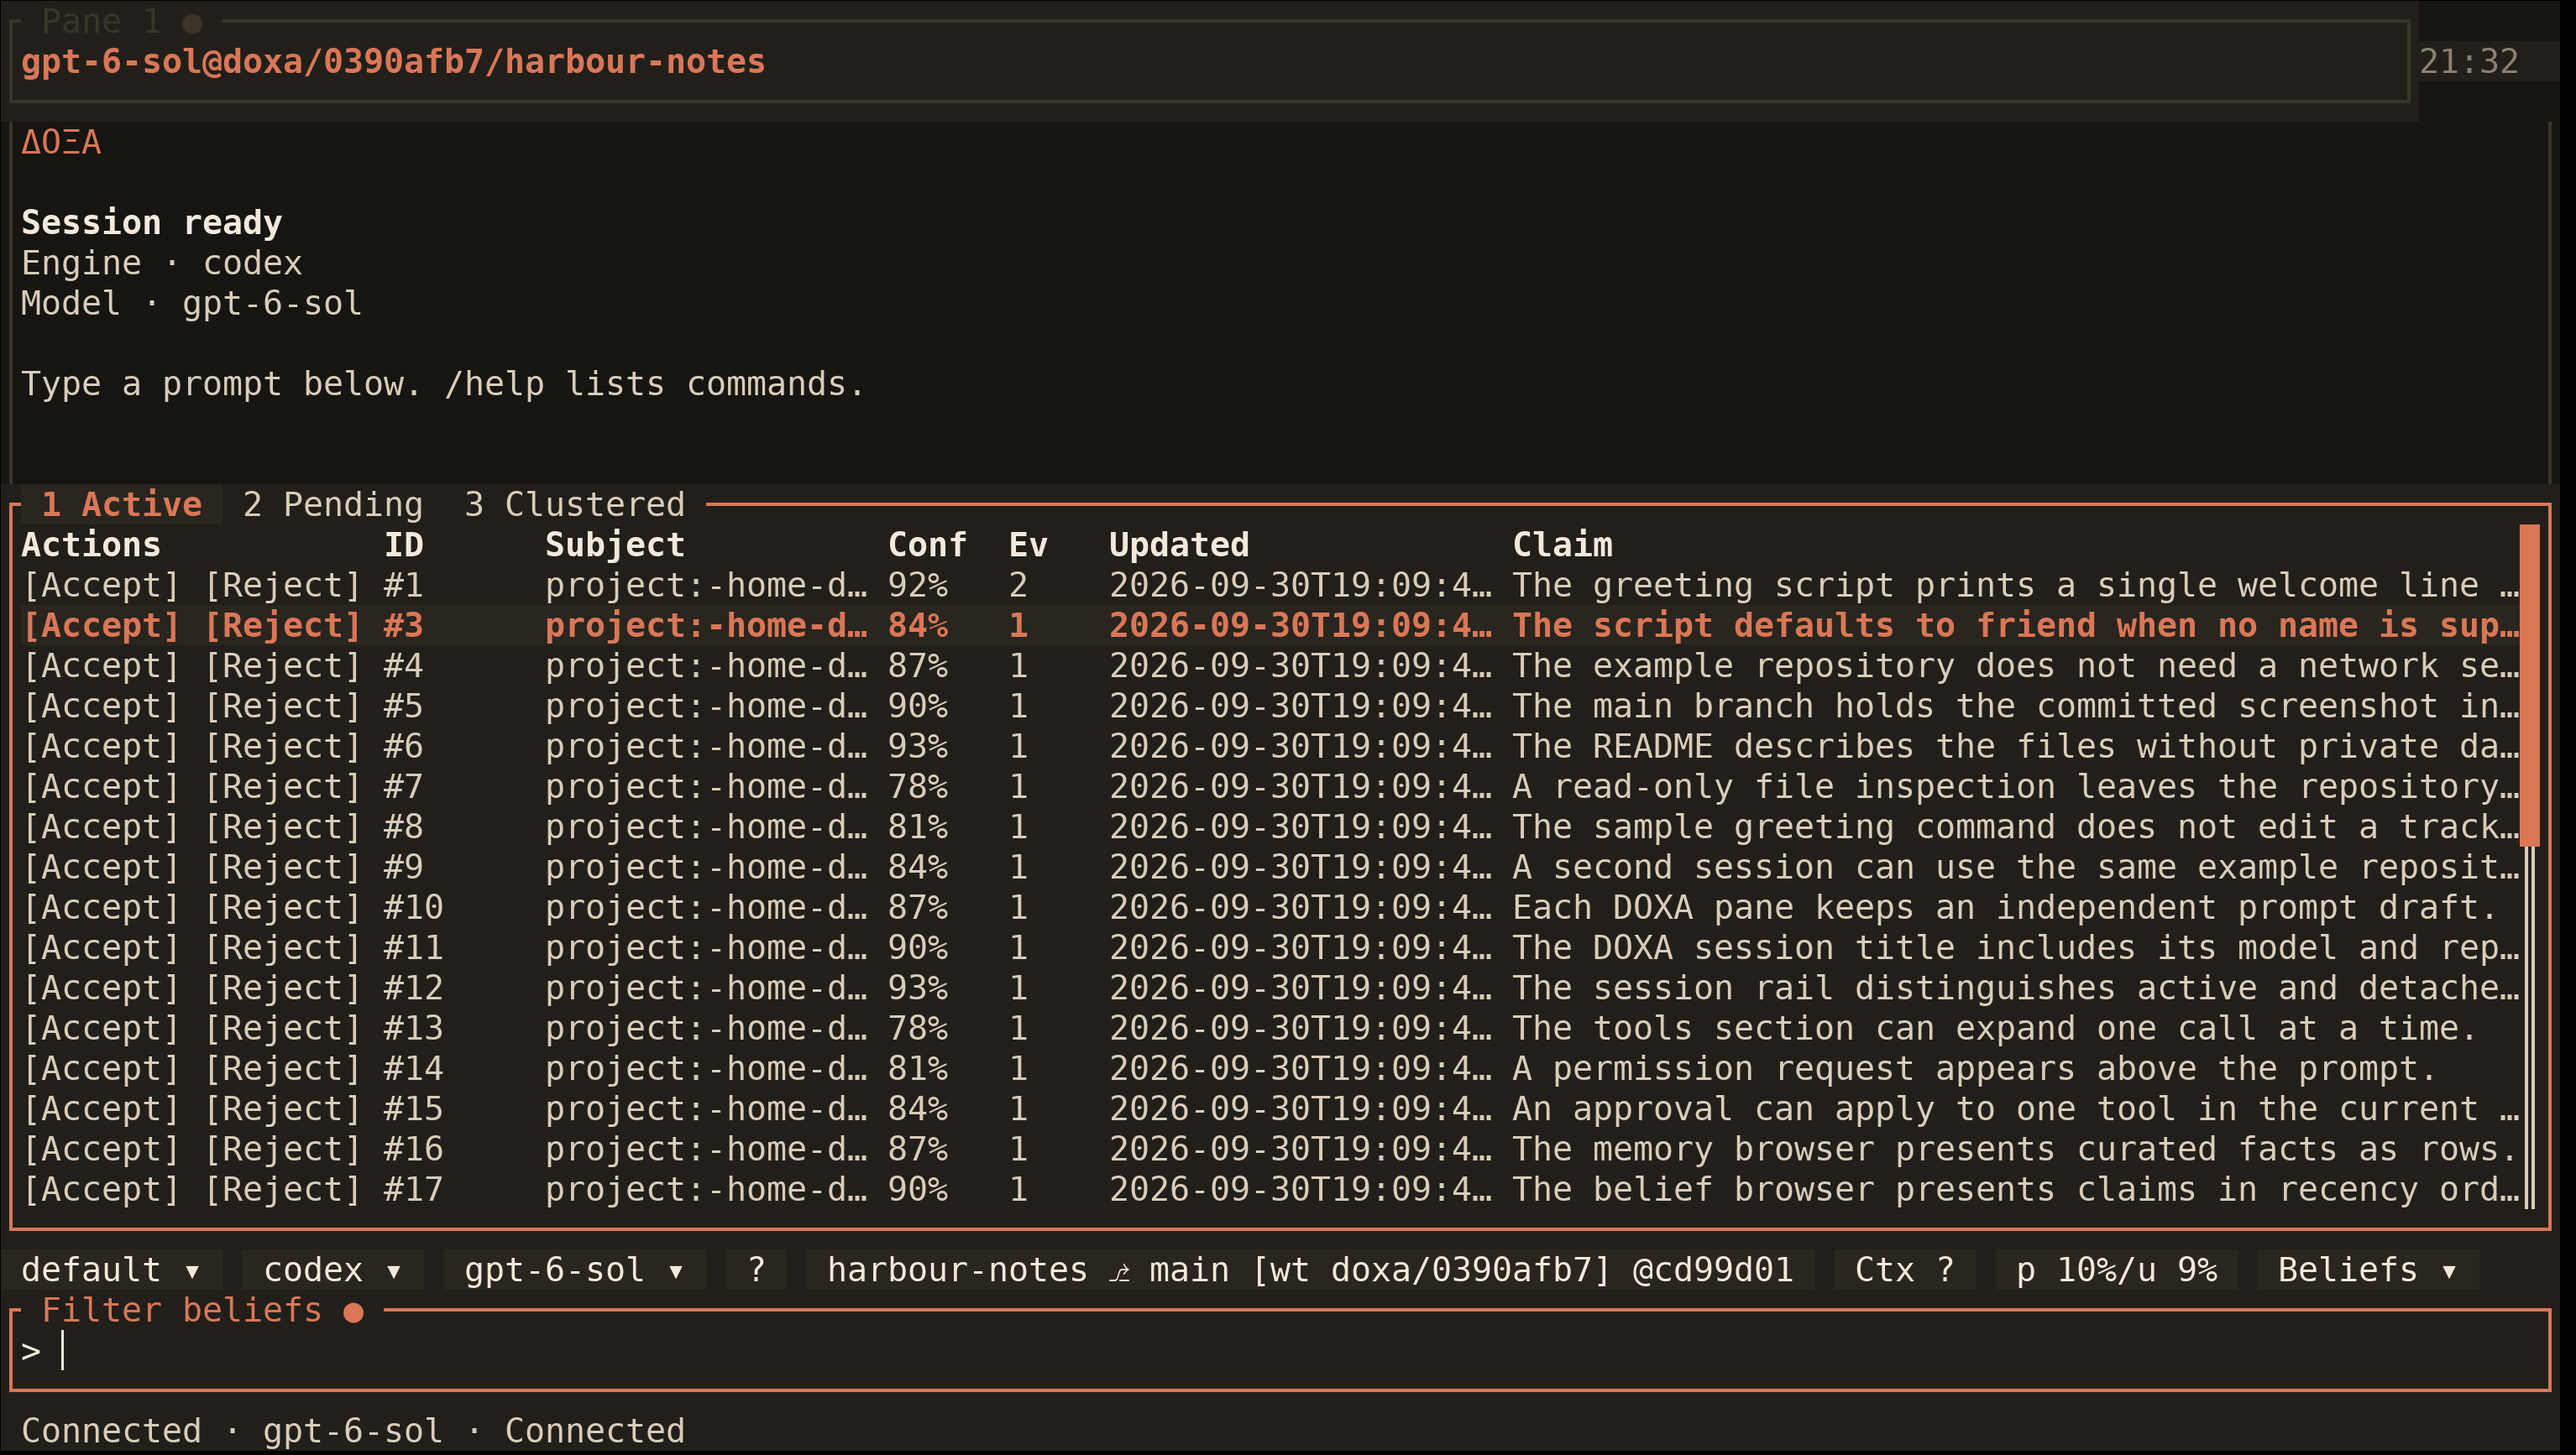
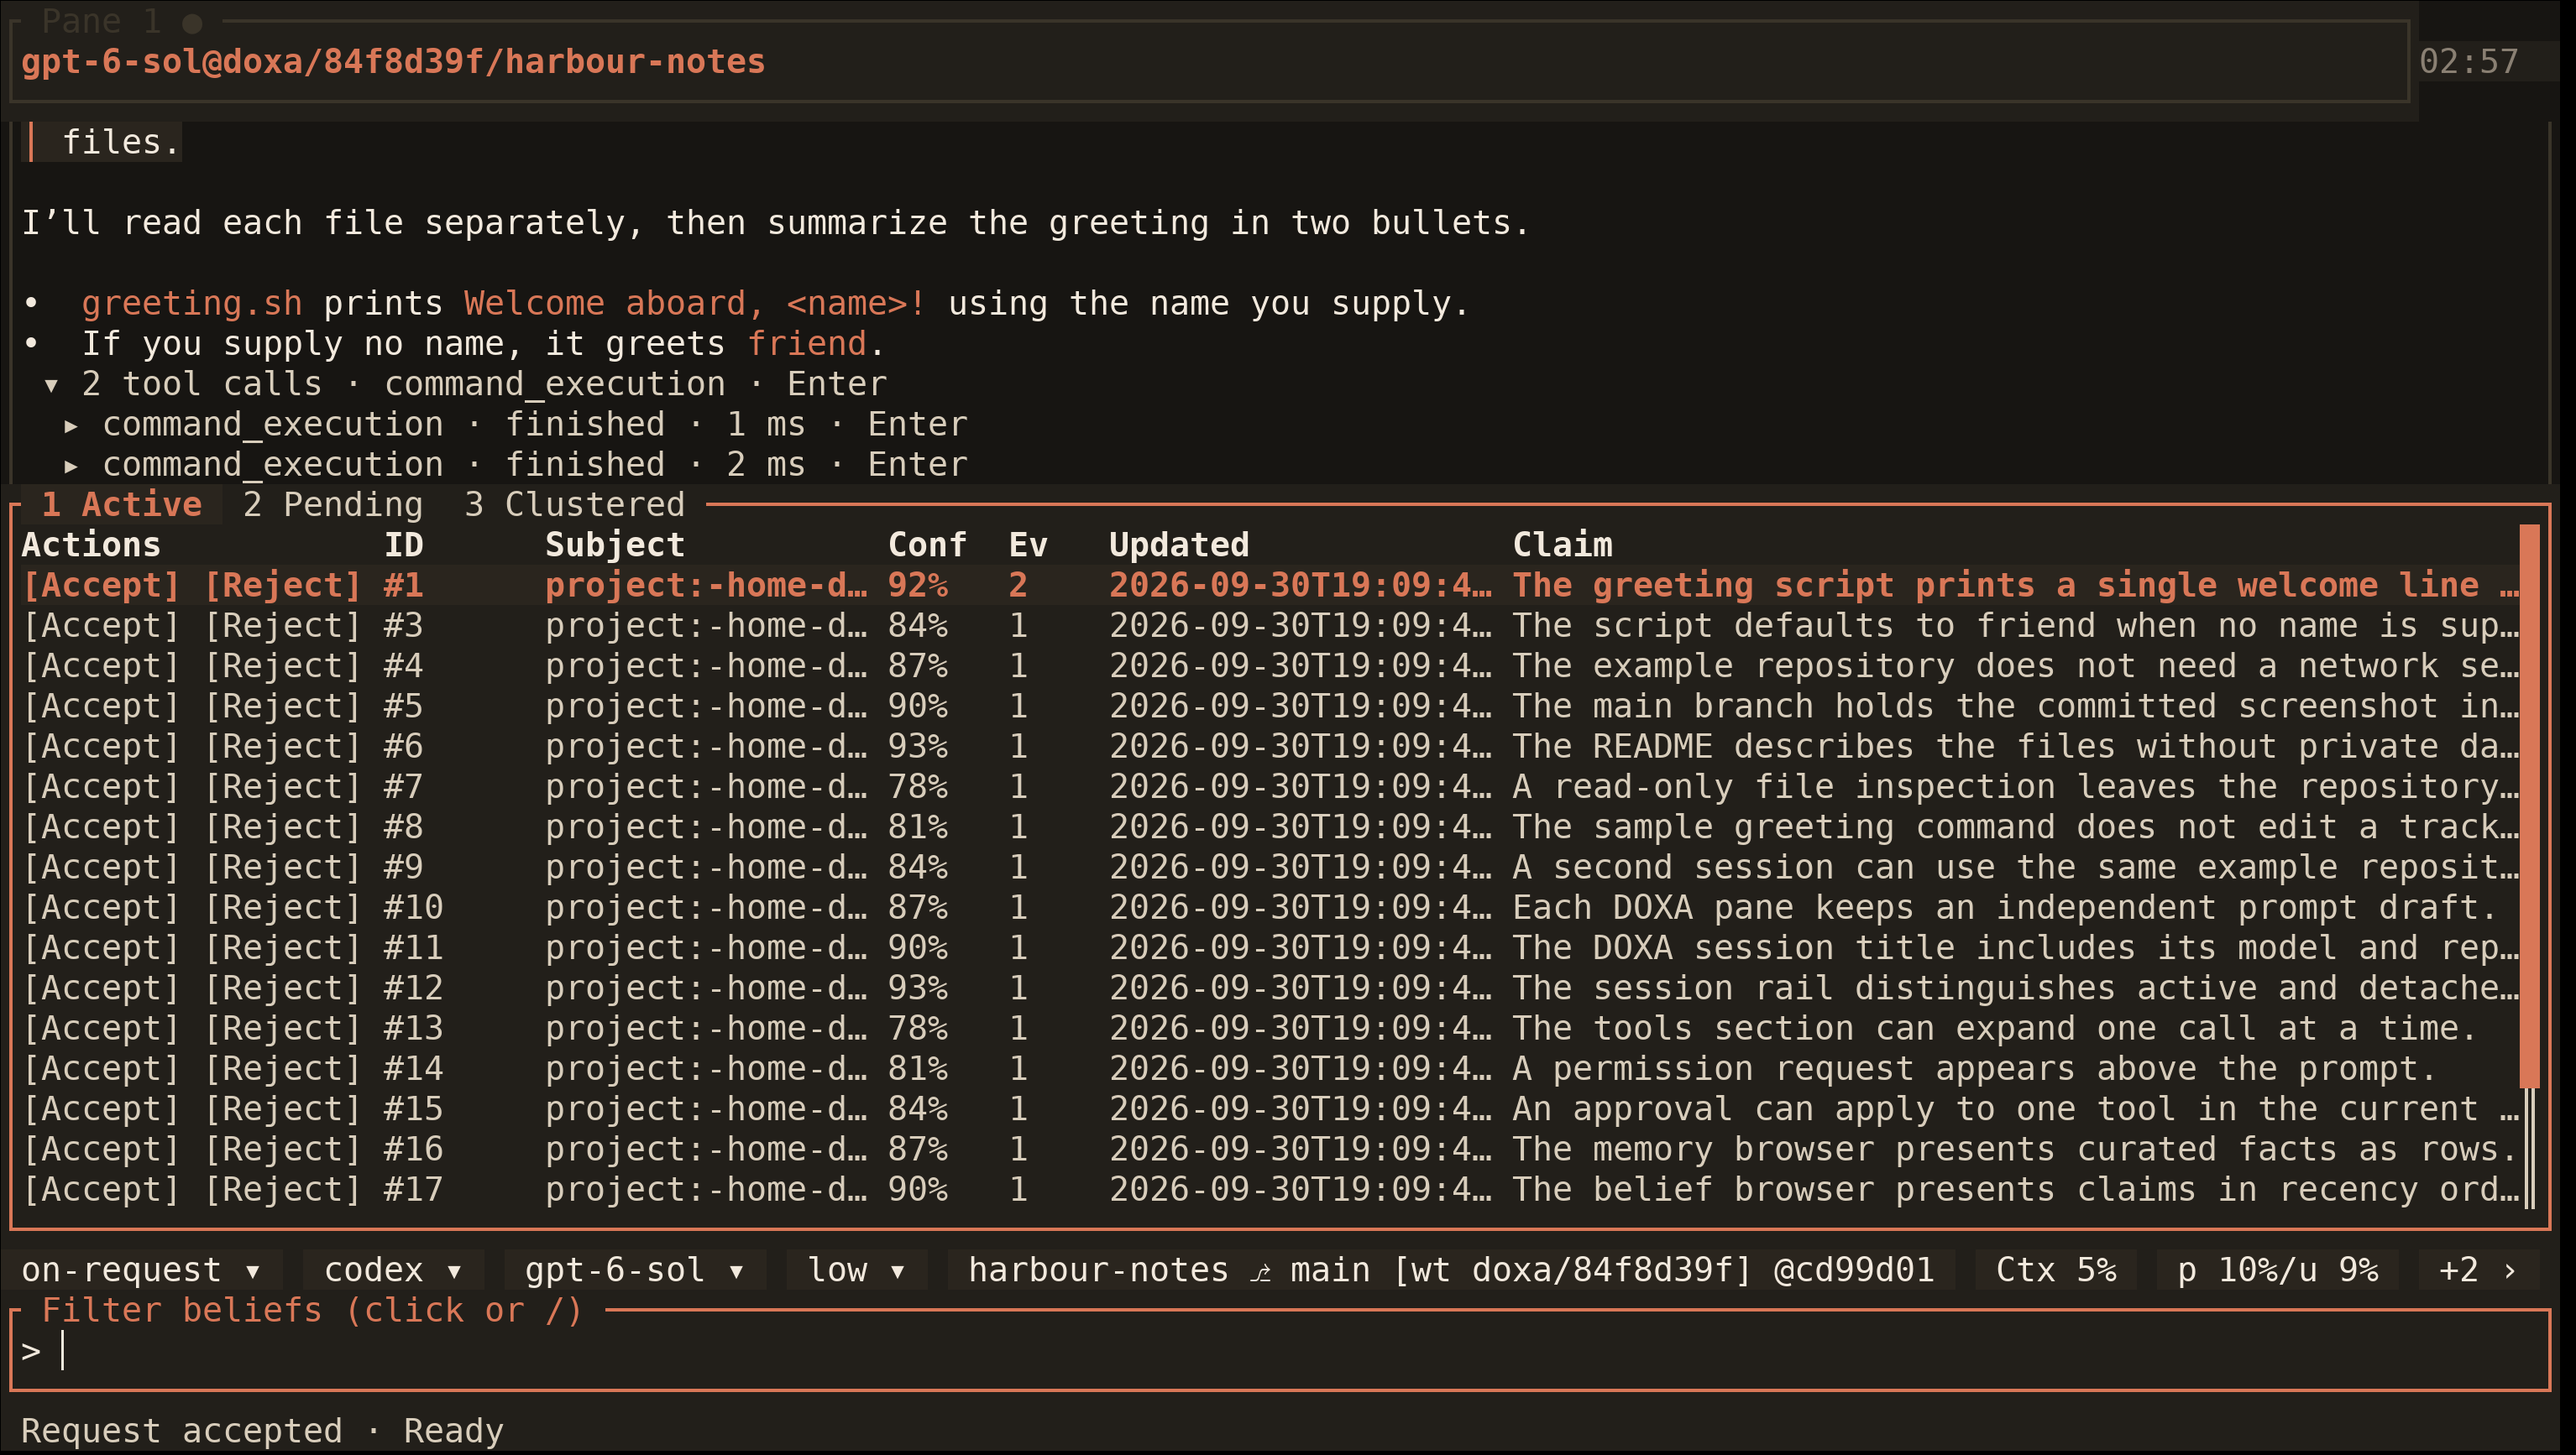
docs(gallery): recapture Rust TUI and refresh README
Replace the README gallery with live alpha.68 captures, document the isolated capture process, and bump the Rust release.

diff --git a/docs/rust-gallery.md b/docs/rust-gallery.md
@@ -1,19 +1,18 @@
 # Live Rust terminal gallery
 
-The README images were captured on 2026-09-30 from the running **DOXA
-2.0.0-alpha.58** frontend and daemon. The grouped-session and help frames were
-recaptured with **alpha.59**, which added project headings. A private Xvfb
-display hosts a real GTK3/VTE terminal; FFmpeg records its framebuffer. The gallery uses an
-authenticated Codex CLI 0.156.1 and the protected DOXA app server. The memory
-and belief frames use native LORE 0.62.8; the two grouped-session captures leave
-LORE disabled. No `TestBackend`, demo engine, fixture events, or composited UI
-mockups appear in these images.
+The README images were captured on 2026-10-03 from the running **DOXA
+2.0.0-alpha.68** frontend and daemon. A private Xvfb display hosts a real
+GTK3/VTE terminal; FFmpeg records its framebuffer. The gallery uses an
+authenticated Codex CLI 0.156.1 through the protected DOXA app server and the
+native LORE 0.62.11 carrier. DOXA and LORE state are isolated from the user's
+stores. No `TestBackend`, demo engine, fixture events, or composited UI mockups
+appear in these images.
 
 | Image | Live state |
 | --- | --- |
 | `rust-hero.png` | Completed Codex turn with two file reads and folded tool calls |
 | `rust-welcome.png` | Fresh session and block Greek ΔΟΞΑ banner |
-| `rust-sessions.png` | Three real tabs grouped under Harbour notes and Lighthouse notes in the session rail |
+| `rust-sessions.png` | Two live sessions grouped by repository above one recoverable, muted Past sessions entry |
 | `rust-curated-memory.png` | Native LORE facts in a selectable, scrollable table |
 | `rust-beliefs.png` | Native LORE beliefs with a selected review row |
 | `rust-tool-entries.png` | One actual provider tool call expanded inside the turn |
@@ -21,14 +20,14 @@ mockups appear in these images.
 | `rust-help.png` | Local command help beside the grouped session rail |
 | `rust-settings.png` | Editable Keys settings category |
 
-All nine PNGs measure **3068 × 1734** and use DejaVu Sans Mono 30. The
-captured repositories, **Harbour notes** and **Lighthouse notes**, contain only
-synthetic example files. Lighthouse notes appears only in the two grouped-session
-frames. The user and project memory and beliefs were
-seeded with synthetic statements through the native `lore-rs` carrier. DOXA
-then queried the isolated store normally. The provider read only two Harbour
-notes example files; it did not edit the repository. The published images contain
-no account credentials, personal memory, or private workspace paths.
+All nine PNGs measure **3068 × 1734**. The terminal used DejaVu Sans Mono 30
+at 127 columns by 36 rows. **Harbour notes** and **Lighthouse notes** contain
+only synthetic example files. Lighthouse notes appears only in the grouped
+session and help frames. The isolated LORE store contains synthetic user and
+project facts and beliefs; DOXA queried it through the native carrier. The
+provider read only two Harbour notes files and did not edit the repository.
+The published images contain no credentials, personal memory, or private
+workspace paths.
 
 ## Reproduce a capture
 
@@ -73,11 +72,13 @@ wheel input over the tab header switches them. `/help`, `/settings`, `/beliefs`,
 and `/s` expose the other captured states. The script's `text` action reads
 the actual terminal text for state checks, and `status` reports cell geometry.
 
-For `rust-sessions.png`, start a second real session from a separate synthetic
-repository with the same isolated DOXA home and runtime. Detach that TUI with
-Ctrl+Q, then `/attach` its live session from Harbour notes. Create a second
-Harbour notes tab with Ctrl+T and open the rail with `/sidebar`. The capture
-shows both repository headings and three actual session IDs.
+For `rust-sessions.png`, create a second Harbour notes tab with Ctrl+T. Start
+another real session from Lighthouse notes using the same isolated DOXA home
+and runtime, then `/attach` it in the first TUI. Open the rail and drag its
+divider wider. Detach the completed Harbour notes tab with Ctrl+X, stop that
+exact daemon in the isolated runtime, and wait for the rail's Past sessions
+section. The capture shows two live sessions and the stopped session's retained
+label under separate repository headings.
 
 Inspect every PNG and its dimensions before copying it from
 `gallery-state/shots` to `assets/shots`. Stop the exact isolated capture

diff --git a/README.md b/README.md
@@ -11,15 +11,15 @@
 > [!WARNING]
 > Rust 2.0 is an alpha. Configuration and stored formats may change. Agents can edit files and run commands with your privileges; review [scope and limits](#scope-and-limits) before using DOXA on important work.
 
-![DOXA running a Codex session with an expandable tool section](assets/shots/rust-hero.png)
+![DOXA Rust running a Codex session with an expandable tool section](assets/shots/rust-hero.png)
 
-*Captured from the running Rust app in an isolated example repository. See the [capture record](docs/rust-gallery.md).*
+*Captured from the running 2.0.0-alpha.68 app in an isolated example repository. See the [capture record](docs/rust-gallery.md).*
 
 ## What you get
 
 - **Four engines.** Choose Claude, Codex, DeepSeek, or GLM per session; available models and reasoning levels follow the selected engine.
 - **A flexible workspace.** Group tabs, split panes, drag dividers, and keep a separate prompt in each pane.
-- **Recoverable sessions.** Restore saved layouts and conversations or reattach to running daemons. The rail shows queued prompts, active turns, and unread results.
+- **Recoverable sessions.** Restore saved layouts and conversations or reattach to running daemons. The rail groups sessions by project, places recoverable past sessions last, and marks queued or unread work.
 - **Readable turns.** Watch streamed responses, expand reasoning and individual tool calls, and open links with Ctrl+click.
 - **Reviewed memory.** Browse LORE facts and beliefs, inspect evidence, and accept or reject proposed beliefs.
 - **Repo tools.** Navigate repositories and worktrees, switch branches, inspect diffs, and review tracked changes.
@@ -54,13 +54,13 @@ DeepSeek and GLM show estimated API cost from provider token counts and publishe
 
 ## Gallery
 
-These frames come from the running Rust TUI with isolated DOXA state. The memory frames use an isolated LORE store. The [capture record](docs/rust-gallery.md) explains the example data and reproduction steps.
+These frames come from the running 2.0.0-alpha.68 Rust TUI with isolated DOXA and LORE state. The [capture record](docs/rust-gallery.md) explains the example data and reproduction steps.
 
 ### Welcome and sessions
 
 ![The Greek block DOXA banner and a ready session prompt](assets/shots/rust-welcome.png)
 
-![Three live sessions grouped under Harbour notes and Lighthouse notes in the rail](assets/shots/rust-sessions.png)
+![Live sessions grouped by example repository above a muted Past sessions entry](assets/shots/rust-sessions.png)
 
 ### Curated memory
 
@@ -78,7 +78,7 @@ These frames come from the running Rust TUI with isolated DOXA state. The memory
 
 ![Slash-command completion above the prompt](assets/shots/rust-commands.png)
 
-![The running app's command help beside sessions grouped by repository](assets/shots/rust-help.png)
+![DOXA command help beside live sessions grouped by repository](assets/shots/rust-help.png)
 
 ![The configurable Keys page in DOXA settings](assets/shots/rust-settings.png)
 

diff --git a/CHANGELOG.md b/CHANGELOG.md
@@ -5,6 +5,13 @@ them (`v0.1.0` … `v1.19.0`); the 1.x ranges below are derived from that
 history, not written from memory. Rust alpha tags identify preview snapshots;
 the stable 2.0 release has not been cut.
 
+## 2.0.0-alpha.68 — 2026-10-03
+
+**Documentation**
+
+- Refresh **`README.md`** and its live Rust screenshots for the current interface, including the session rail and memory menus.
+- Update **`docs/rust-gallery.md`** with the release, capture state, and reproduction steps.
+
 ## 2.0.0-alpha.67 — 2026-10-02
 
 **Scrolling**
